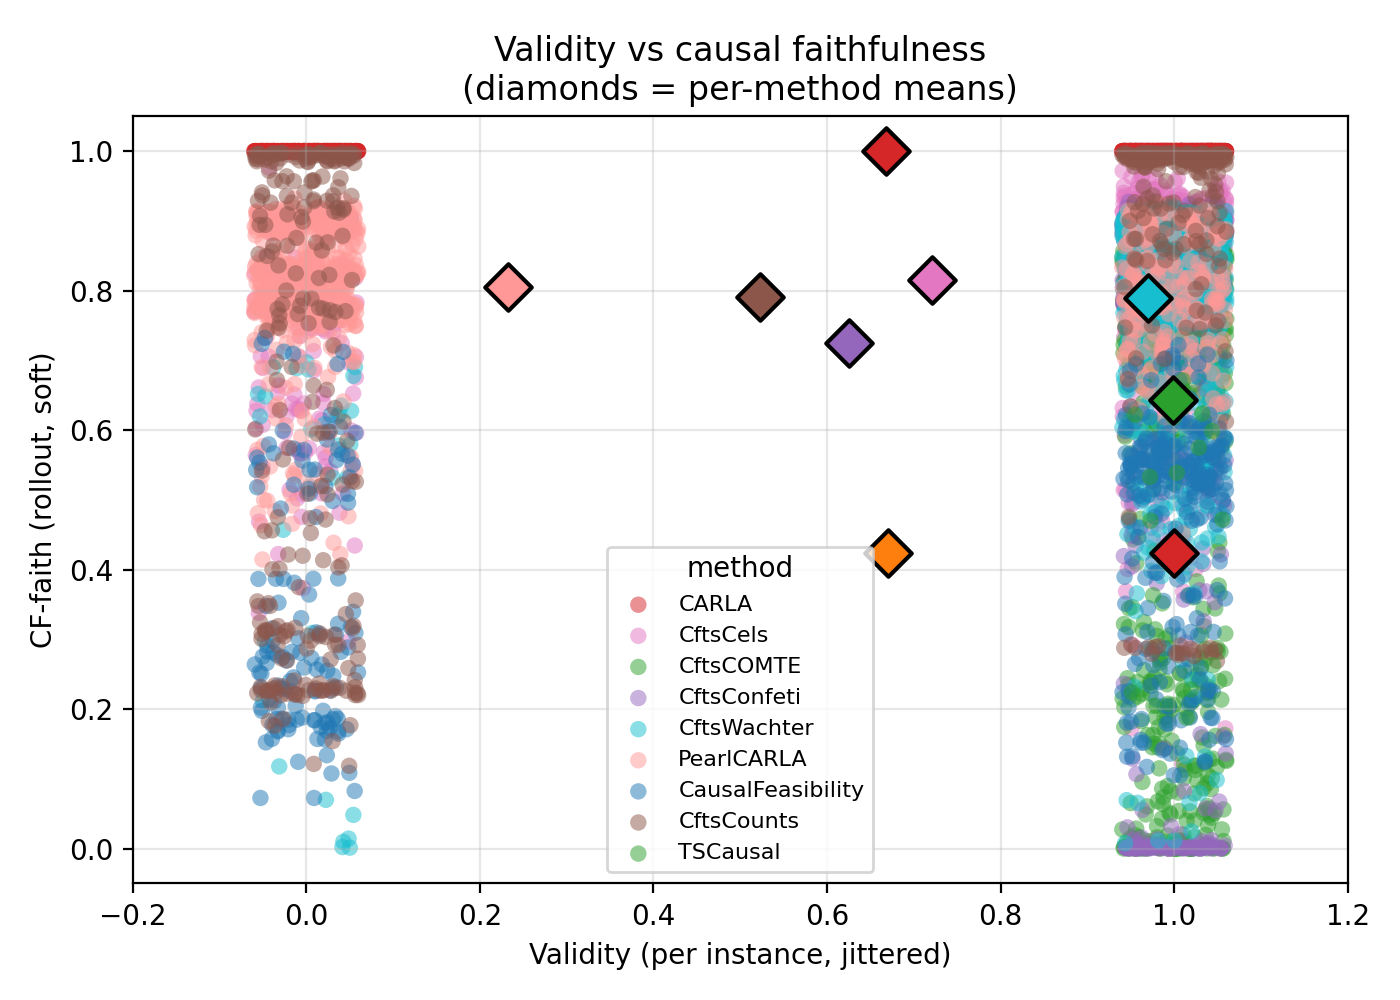
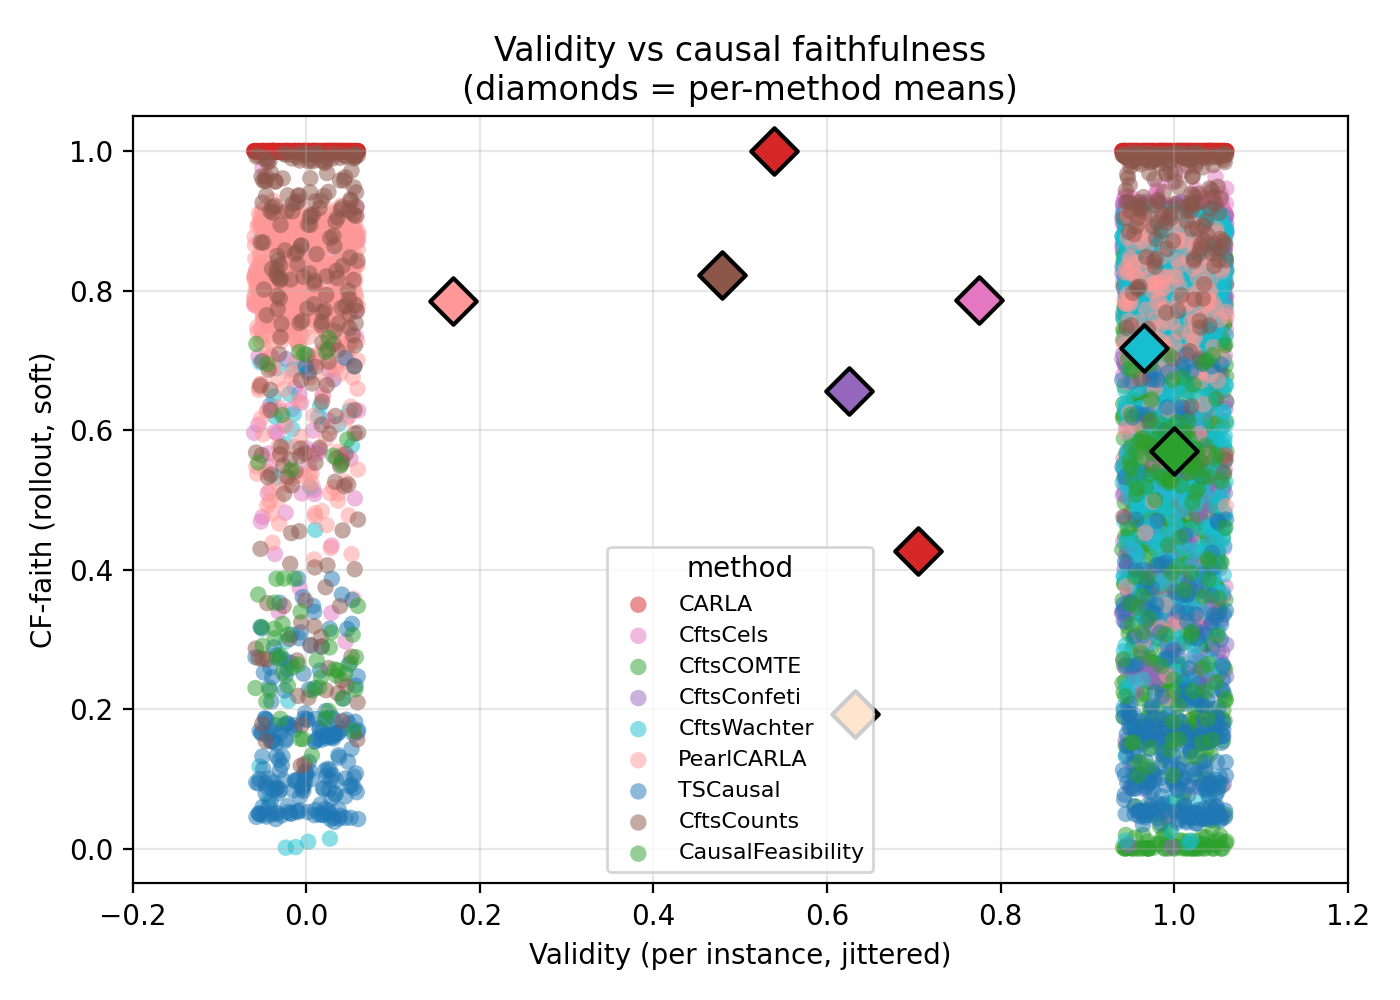
[data] re-stamp M4e sweeps clean; unbreak the figures pipeline
All six graph_error.json payloads now carry git_dirty=false at 7d3e230.
Numbers are byte-identical to the previous run -- this changes provenance
only.

Also fixes a KeyError that aborted run_figures_report: fig5's linestyle map
was built with zip() against a 4-element list, so a fifth config
(smoke_interior_label) had no entry and the plot loop raised before fig6 ever
ran. fig6 on disk was therefore stale since 2026-08-05 and still showed the
withdrawn dissipation reading. Styles now cycle; all six figures regenerate,
and fig6 renders the sigma-normalised axes.

diff --git a/experiments/08_aggregate_and_report.py b/experiments/08_aggregate_and_report.py
@@ -952,7 +952,13 @@ def fig5_horizon_decay(tables_dir: Path, out_path) -> bool:
 
     configs = sorted({r["config"] for r in rows})
     methods = sorted({r["method"] for r in rows})
-    linestyles = {c: ls for c, ls in zip(configs, ["-", "--", ":", "-."])}
+    # Cycle rather than zip: zip() silently truncates against the style list, so
+    # a fifth config (e.g. smoke_interior_label) got no entry and the plot loop
+    # below raised KeyError -- which aborted run_figures_report before fig6 ever
+    # ran, leaving a stale fig6 PDF on disk. Repeated linestyles are a legibility
+    # cost; a crash is a correctness one.
+    _LS = ["-", "--", ":", "-."]
+    linestyles = {c: _LS[i % len(_LS)] for i, c in enumerate(configs)}
 
     fig, ax = plt.subplots(figsize=(6.5, 4.5))
     for method in methods:
